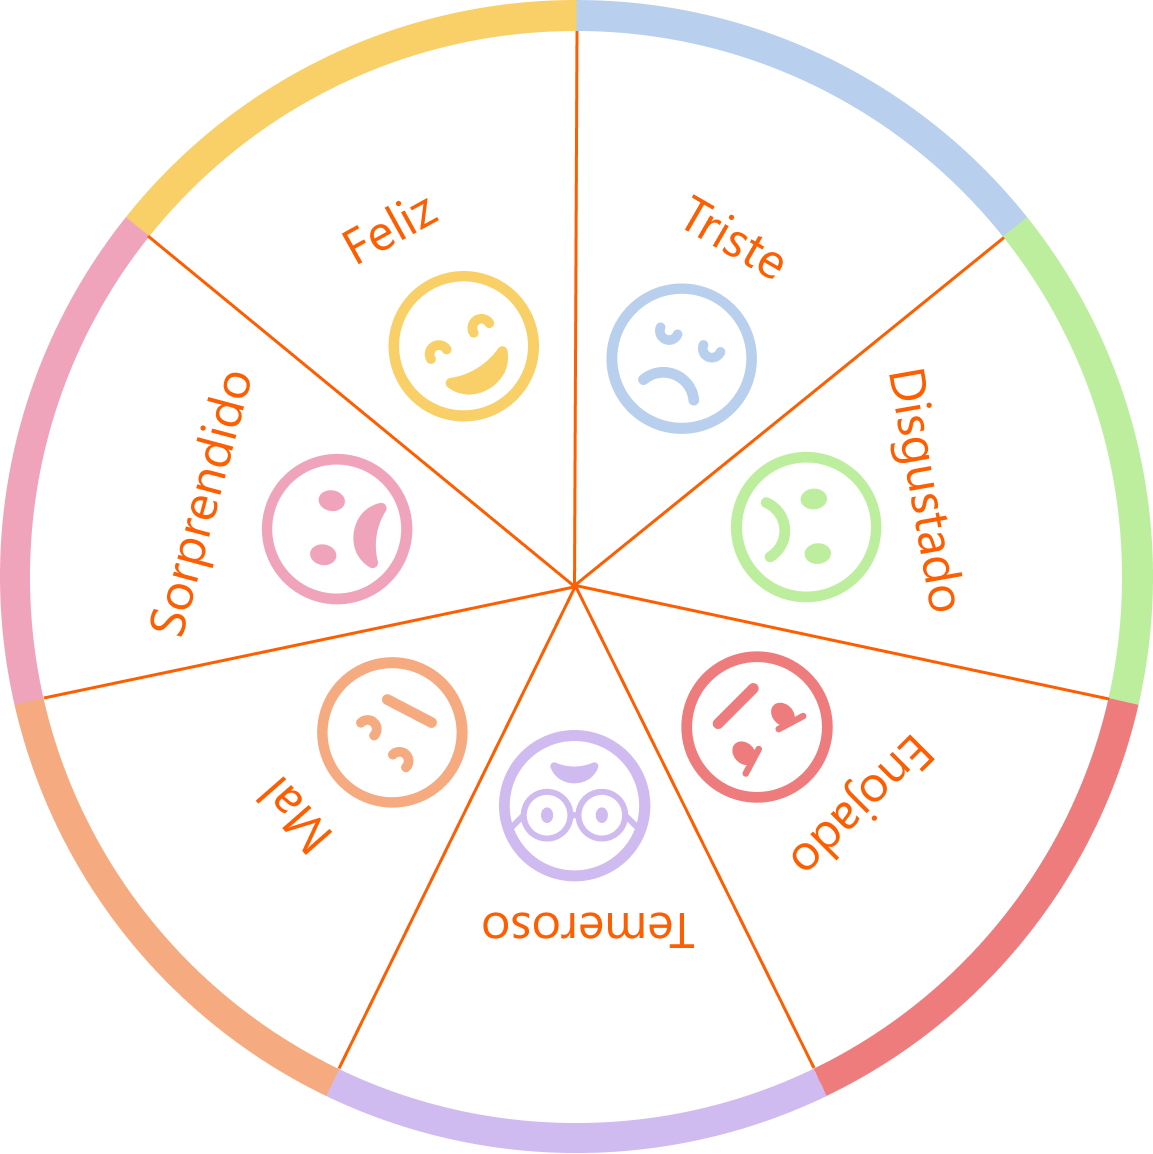
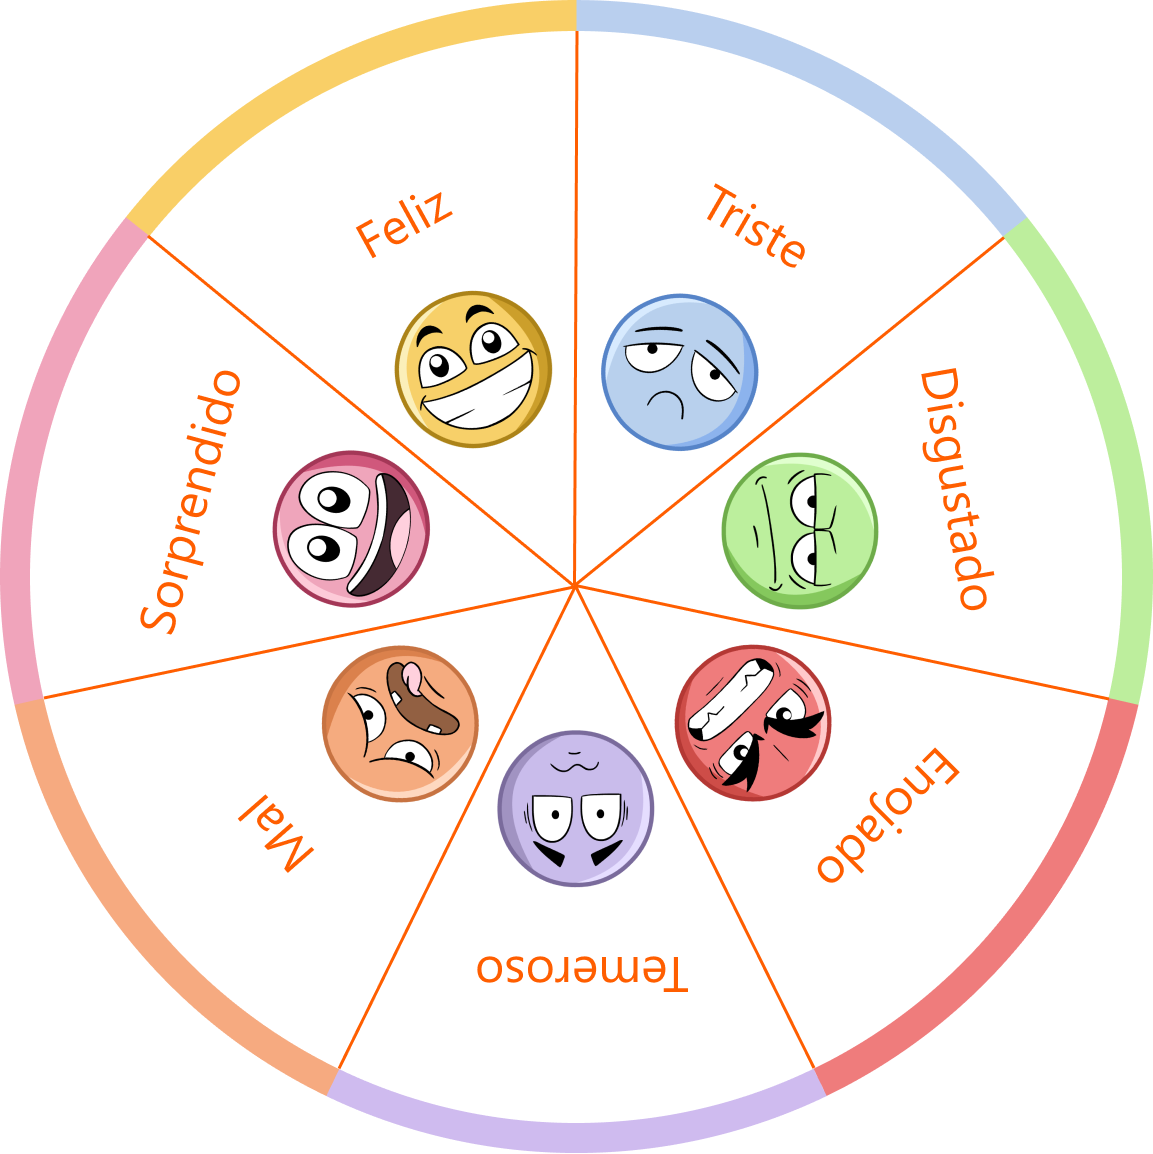
Ajustes varios, cambio de ruleta y se muestran iconos en el historico.

diff --git a/screens/HomeScreen.js b/screens/HomeScreen.js
@@ -35,6 +35,7 @@ const HomeScreen = ({authDuck, navigation, groupDuck}) => {
 
 
     const [feelings, setFeelings] = useState(null);
+    const [colorMainFeeling, setColorMainFeeling] = useState('FFFF');
     const isFocused = useIsFocused();
     const [visible, setVisible] = useState(true);
     const [loading, setLoading] = useState(false);
@@ -124,10 +125,12 @@ const HomeScreen = ({authDuck, navigation, groupDuck}) => {
 
             console.log(res.data.data.userInfo)
             setDays(res.data.data.days)
+            console.log('last emotion ===',res.data.data.lastEmotion)
             setLastEmotion(res.data.data.lastEmotion.name)
             setLastEmotion1(res.data.data.lastEmotion.child.name)
             setLastEmotion2(res.data.data.lastEmotion.child.child.name)
             setMainFeeling(res.data.data.lastEmotion)
+            setColorMainFeeling(res.data.data.lastEmotion.child.child.color)
             setImage(res.data.data.userInfo.avatar.formats.small.url)
             setFullName(res.data.data.userInfo.fullName)
             setIntro(res.data.data.userInfo.intro)
@@ -304,11 +307,11 @@ const HomeScreen = ({authDuck, navigation, groupDuck}) => {
                             <View
                                 flexDir={'row'}
                                 mb={8}
-                                bgColor={Colors.gray}
+                                bgColor={'#' + colorMainFeeling}
                                 style={getShadowCircleStyle(10, 10)}
                                 borderRadius={30}
                                 p={3}>
-                                <View flex={1} height={70} alignItems={'center'} justifyContent={'center'}>
+                                <View flex={0.5} height={70} alignItems={'center'} justifyContent={'center'}>
 
                                     {
                                         _.has(mainFeeling, 'icon.url') &&
@@ -318,7 +321,7 @@ const HomeScreen = ({authDuck, navigation, groupDuck}) => {
 
 
                                 </View>
-                                <View flex={1} height={70} mr={1}>
+                                <View flex={1} height={70} mr={1} >
                                     <TouchableOpacity
                                         onPress={() => {
                                             navigation.navigate('HistoryFeelingScreen')
@@ -330,10 +333,10 @@ const HomeScreen = ({authDuck, navigation, groupDuck}) => {
                                             borderRadius: 10
                                         }}>
                                         <Text fontSize={12}>Última emoción</Text>
-                                        <Text fontSize={26} color={'#' + _.get(lastEmotion1, 'color', '000000')}
-                                              numberOfLines={1}
-                                              adjustsFontSizeToFit>{lastEmotion} </Text>
-                                        <Text fontSize={12} adjustsFontSizeToFit
+                                        <Text  color={'white'} style={{fontWeight: 'bold'}}
+                                              fontSize={20}
+                                              adjustsFontSizeToFit>{lastEmotion}</Text>
+                                        <Text color={'white'} fontSize={16} adjustsFontSizeToFit
                                               numberOfLines={1}>{lastEmotion1} - {lastEmotion2} </Text>
                                     </TouchableOpacity>
                                 </View>

diff --git a/screens/HistoryFeelingScreen.js b/screens/HistoryFeelingScreen.js
@@ -32,7 +32,7 @@ const HistoryFeelingScreen = ({authDuck, navigation}) => {
             setLoading(true)
             let startDate = '2020-01-01', enDate = '2100-01-01';
             const res = await ApiApp.getHistoryFeelings(startDate, enDate, userId)
-            let arrayDates = _.map(res.data.data, (obj) => {
+            let arrayDates = _.map(res.data.data, (obj,index) => {
                 let dataItem = {
                     shortDate: obj.attributes.createdAt.split('T')[0],
                     date: obj.attributes.createdAt,
@@ -41,6 +41,8 @@ const HistoryFeelingScreen = ({authDuck, navigation}) => {
                 }
                 return dataItem;
             })
+
+
 
             setHistoryDataDetail(arrayDates)
             arrayDates = _.orderBy(arrayDates, ['date'], ['desc']);
@@ -110,7 +112,7 @@ const HistoryFeelingScreen = ({authDuck, navigation}) => {
 
                                             >
                                                 <View flex={0.5} alignItems={'center'} justifyContent={'center'}>
-                                                    <Image tintColor={'white'} style={{height: 40, width: 40}}
+                                                    <Image style={{height: 50, width: 50}}
                                                            source={{uri: `${_.get(ele, 'feeling.attributes.parent.data.attributes.parent.data.attributes.icon.data.attributes.url', 'https://app-ynl.s3.us-west-1.amazonaws.com/triste_4a4900f0cd.png')}`}}/>
                                                 </View>
                                                 <View flex={1} justifyContent={'center'}>

diff --git a/screens/HistoryFeelingScreenDetail.js b/screens/HistoryFeelingScreenDetail.js
@@ -68,7 +68,7 @@ const HistoryFeelingScreenDetail = ({authDuck, route, navigation}) => {
 
                                     >
                                         <View flex={0.5} alignItems={'center'} justifyContent={'center'}>
-                                            <Image tintColor={'white'} style={{height: 40, width: 40}}
+                                            <Image  style={{height: 60, width: 60}}
                                                    source={{uri: `${_.get(ele, 'feeling.attributes.parent.data.attributes.parent.data.attributes.icon.data.attributes.url', 'https://app-ynl.s3.us-west-1.amazonaws.com/triste_4a4900f0cd.png')}`}}/>
                                         </View>
                                         <View flex={1} justifyContent={'center'}>

diff --git a/screens/RouletteStep1Screen.js b/screens/RouletteStep1Screen.js
@@ -84,7 +84,7 @@ const RouletteStep1Screen = ({navigation}) => {
                         <Text color={Colors.red} size={'lg'}  textAlign={'center'}>¿Cómo te sientes hoy?</Text>
                     </View>
                     <View flex={0.4} alignItems={'center'} justifyContent={'flex-end'}>
-                        <Image alt={'roulette'} source={pointerImage} style={{resizeMode: 'contain'}} width={10} height={10}></Image>
+                        <Image alt={'roulette'} source={pointerImage} style={{resizeMode: 'contain'}} width={10} height={10}/>
                     </View>
 
                     <View flex={1} alignItems={'center'}>

diff --git a/screens/Intro/Intro3Screen.js b/screens/Intro/Intro3Screen.js
@@ -13,7 +13,7 @@ const Intro3Screen = () => {
                     <Image source={logoSmall}></Image>
                 </View>
                 <View flex={1}>
-                    <Text color={'white'} textAlign={'center'} px={4} mt={4}>Crea diferentes grupo y comparte con tus
+                    <Text color={'white'} textAlign={'center'} px={4} mt={4}>Crea diferentes grupos y comparte con tus
                         amigos tu avance</Text>
                 </View>
             </ImageBackground>
